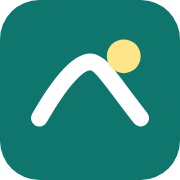
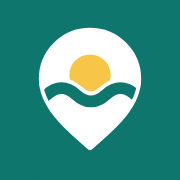
feat(brand): 새 로고(지도 핀 · 해 · 물결 길)와 파비콘 · 앱 아이콘 · OG 이미지

diff --git a/web-assets/og-template/og.html b/web-assets/og-template/og.html
@@ -13,6 +13,8 @@
         box-sizing: border-box;
       }
       body {
+        position: relative;
+        overflow: hidden;
         width: 1200px;
         height: 630px;
         font-family: "Pretendard Variable", sans-serif;
@@ -20,38 +22,66 @@
         color: #ffffff;
         display: flex;
         align-items: center;
-        padding: 0 96px;
+        padding: 0 96px 40px;
         gap: 56px;
         word-break: keep-all; /* 한국어는 어절 단위로 줄바꿈 */
       }
+      /* 아래 물결 띠 */
+      .sea {
+        position: absolute;
+        left: 0;
+        bottom: 0;
+        width: 1200px;
+        height: 120px;
+      }
       img {
-        width: 220px;
-        height: 220px;
-        border-radius: 48px;
-        box-shadow: 0 0 0 6px rgba(255, 255, 255, 0.18);
+        position: relative;
+        width: 210px;
+        height: 210px;
+        flex: none;
+      }
+      div {
+        position: relative;
       }
       h1 {
-        font-size: 96px;
+        font-size: 100px;
         font-weight: 800;
-        letter-spacing: -2px;
+        letter-spacing: -3px;
+        line-height: 1;
       }
       p {
-        margin-top: 18px;
+        margin-top: 26px;
         font-size: 40px;
-        font-weight: 600;
+        font-weight: 650;
         line-height: 1.35;
+        white-space: pre-line; /* og.json 의 줄바꿈(
+)을 그대로 */
       }
       small {
         display: block;
-        margin-top: 28px;
+        margin-top: 22px;
         font-size: 28px;
-        font-weight: 500;
-        opacity: 0.85;
+        font-weight: 550;
+        color: #fbe2a3; /* 모래빛 (밝게) */
       }
     </style>
   </head>
   <body>
-    <img src="../logo-source/logo.svg" alt="" />
+    <svg class="sea" viewBox="0 0 1200 120" preserveAspectRatio="none" aria-hidden="true">
+      <path
+        d="M0 60c100-40 200-40 300 0s200 40 300 0 200-40 300 0 200 40 300 0v60H0z"
+        fill="#ffffff"
+        fill-opacity="0.08"
+      />
+      <path
+        d="M0 60c100-40 200-40 300 0s200 40 300 0 200-40 300 0 200 40 300 0"
+        fill="none"
+        stroke="#ffffff"
+        stroke-opacity="0.35"
+        stroke-width="6"
+      />
+    </svg>
+    <img src="../../public/brand/mark-white.svg" alt="" />
     <div>
       <h1 id="name"></h1>
       <p id="tagline"></p>

diff --git a/src/components/brand/BrandLogo.tsx b/src/components/brand/BrandLogo.tsx
@@ -1,0 +1,36 @@
+// 안심로드 로고 (심볼 + 글자 '안심로드'). 글자는 Pretendard ExtraBold 를 윤곽선으로 굳힌 SVG 라 <img> 로도 같은 모양이다.
+import { cn } from "@/lib/utils";
+
+const RATIO = 194.65 / 64; // public/brand/logo.svg viewBox 가로 ÷ 세로
+
+/**
+ * height 는 px (기본 32 — 가로는 비율대로).
+ * tone="color"(기본): 밝은 바탕용 — 다크 모드에서는 흰 로고로 저절로 바뀐다. tone="white": 청록 바탕 · 사진 위.
+ */
+export function BrandLogo({
+  height = 32,
+  tone = "color",
+  className,
+}: {
+  height?: number;
+  tone?: "color" | "white";
+  className?: string;
+}) {
+  const img = (src: string, swap?: string) => (
+    <img
+      src={src}
+      alt="안심로드"
+      width={Math.round(height * RATIO)}
+      height={height}
+      decoding="async"
+      className={cn("shrink-0", swap, className)}
+    />
+  );
+  if (tone === "white") return img("/brand/logo-white.svg");
+  return (
+    <>
+      {img("/brand/logo.svg", "dark:hidden")}
+      {img("/brand/logo-white.svg", "hidden dark:inline-block")}
+    </>
+  );
+}

diff --git a/src/components/brand/BrandMark.tsx b/src/components/brand/BrandMark.tsx
@@ -1,0 +1,36 @@
+// 안심로드 심볼 (청록 핀 · 모래빛 해 · 흰 물결 길). 원본 public/brand/*.svg — web-assets/logo-source/build.py 가 만든다.
+import { cn } from "@/lib/utils";
+
+/**
+ * tone="color"(기본): 밝은 바탕용 — 다크 모드에서는 흰 핀으로 저절로 바뀐다.
+ * tone="white": 청록 바탕 · 사진 위. alt="" 는 옆에 '안심로드' 글자가 있을 때(장식).
+ */
+export function BrandMark({
+  size = 32,
+  tone = "color",
+  alt = "안심로드",
+  className,
+}: {
+  size?: number;
+  tone?: "color" | "white";
+  alt?: string;
+  className?: string;
+}) {
+  const img = (src: string, swap?: string) => (
+    <img
+      src={src}
+      alt={alt}
+      width={size}
+      height={size}
+      decoding="async"
+      className={cn("shrink-0", swap, className)}
+    />
+  );
+  if (tone === "white") return img("/brand/mark-white.svg");
+  return (
+    <>
+      {img("/brand/mark.svg", "dark:hidden")}
+      {img("/brand/mark-white.svg", "hidden dark:inline-block")}
+    </>
+  );
+}

diff --git a/web-assets/logo-source/build.py b/web-assets/logo-source/build.py
@@ -1,0 +1,68 @@
+# 로고 SVG 원본 생성 — 심볼(핀 · 해 · 물결 길)과 글자 로고('안심로드' Pretendard 800 윤곽선)를 한 번에 만든다.
+# 글자는 path로 굳힌다: <img>로 띄운 SVG는 페이지의 웹폰트를 못 쓰기 때문이다.
+# 실행: python web-assets/logo-source/build.py  (fontTools + brotli 필요) → 이어서 node web-assets/generate.mjs
+# 출력: public/brand/{mark,mark-white,logo,logo-white}.svg · public/favicon.svg · web-assets/logo-source/logo.svg(앱 아이콘)
+from pathlib import Path
+from fontTools.ttLib import TTFont
+from fontTools.varLib.instancer import instantiateVariableFont
+from fontTools.pens.svgPathPen import SVGPathPen
+from fontTools.pens.transformPen import TransformPen
+from fontTools.pens.boundsPen import BoundsPen
+
+ROOT = Path(__file__).resolve().parents[2]
+TEAL, SAND, WHITE = "#0F766E", "#F7C548", "#FFFFFF"  # tokens.css --primary · --highlight
+PIN = "M32 61C27 56 8 43 8 27a24 24 0 0 1 48 0c0 16-19 29-24 34z"
+WAVE = "M-5 35c5 4.5 10 4.5 15 0s10-4.5 15 0 10 4.5 15 0 10-4.5 15 0 10 4.5 15 0"
+WORD, WEIGHT, TRACK = "안심로드", 800, -0.03  # 자간 -3%
+WORD_H, WORD_X, WORD_CY = 33.0, 69, 31  # 글자 높이 · 시작 x · 세로 중심 (심볼 64 기준, 핀 머리 중심에 맞춤)
+
+
+def mark(pin, sun, wave, uid):
+    # 핀 안에 해가 지고, 물결 길이 해 아랫부분을 가린다. 물결은 핀 모양으로 잘라 바다 수평선처럼
+    return (
+        f'<defs><clipPath id="{uid}"><path d="{PIN}"/></clipPath></defs>'
+        f'<path d="{PIN}" fill="{pin}" stroke="{pin}" stroke-width="4" stroke-linejoin="round"/>'
+        f'<circle cx="32" cy="25" r="10.5" fill="{sun}"/>'
+        f'<g clip-path="url(#{uid})" fill="none" stroke-linecap="round">'
+        f'<path d="{WAVE}" stroke="{pin}" stroke-width="10"/><path d="{WAVE}" stroke="{wave}" stroke-width="6"/></g>'
+    )
+
+
+def wordmark():
+    font = instantiateVariableFont(TTFont(ROOT / "public/fonts/PretendardVariable.woff2"), {"wght": WEIGHT})
+    glyphs, cmap, hmtx = font.getGlyphSet(), font.getBestCmap(), font["hmtx"]
+    pen, bounds, x = SVGPathPen(glyphs), BoundsPen(glyphs), 0.0
+    for i, ch in enumerate(WORD):
+        g = cmap[ord(ch)]
+        glyphs[g].draw(TransformPen(pen, (1, 0, 0, -1, x, 0)))
+        glyphs[g].draw(TransformPen(bounds, (1, 0, 0, -1, x, 0)))
+        x += hmtx[g][0] + (TRACK * font["head"].unitsPerEm if i < len(WORD) - 1 else 0)
+    x0, y0, x1, y1 = bounds.bounds
+    s = WORD_H / (y1 - y0)
+    tf = f"translate({WORD_X - x0 * s:.3f} {WORD_CY - (y0 + y1) / 2 * s:.3f}) scale({s:.6f})"
+    return pen.getCommands(), tf, round(WORD_X + (x1 - x0) * s + 2, 2)
+
+
+def svg(vb, body):
+    return f'<svg xmlns="http://www.w3.org/2000/svg" viewBox="{vb}">{body}</svg>\n'
+
+
+d, tf, width = wordmark()
+word = lambda color: f'<path fill="{color}" transform="{tf}" d="{d}"/>'
+color, white = mark(TEAL, SAND, WHITE, "m"), mark(WHITE, SAND, TEAL, "m")
+out = {
+    "public/brand/mark.svg": svg("0 0 64 64", color),
+    "public/brand/mark-white.svg": svg("0 0 64 64", white),
+    "public/brand/logo.svg": svg(f"0 0 {width} 64", color + word(TEAL)),
+    "public/brand/logo-white.svg": svg(f"0 0 {width} 64", white + word(WHITE)),
+    "public/favicon.svg": svg("0 0 64 64", color),
+    # 앱 아이콘: 청록 둥근 사각형 위 흰 핀 (70%, 광학 중심)
+    "web-assets/logo-source/logo.svg": svg(
+        "0 0 64 64",
+        f'<rect width="64" height="64" rx="14" fill="{TEAL}"/>'
+        f'<g transform="translate(9.6 9.2) scale(0.7)">{mark(WHITE, SAND, TEAL, "a")}</g>',
+    ),
+}
+for path, text in out.items():
+    (ROOT / path).write_text(text, encoding="utf8")
+print("로고 SVG 생성:", ", ".join(out))
